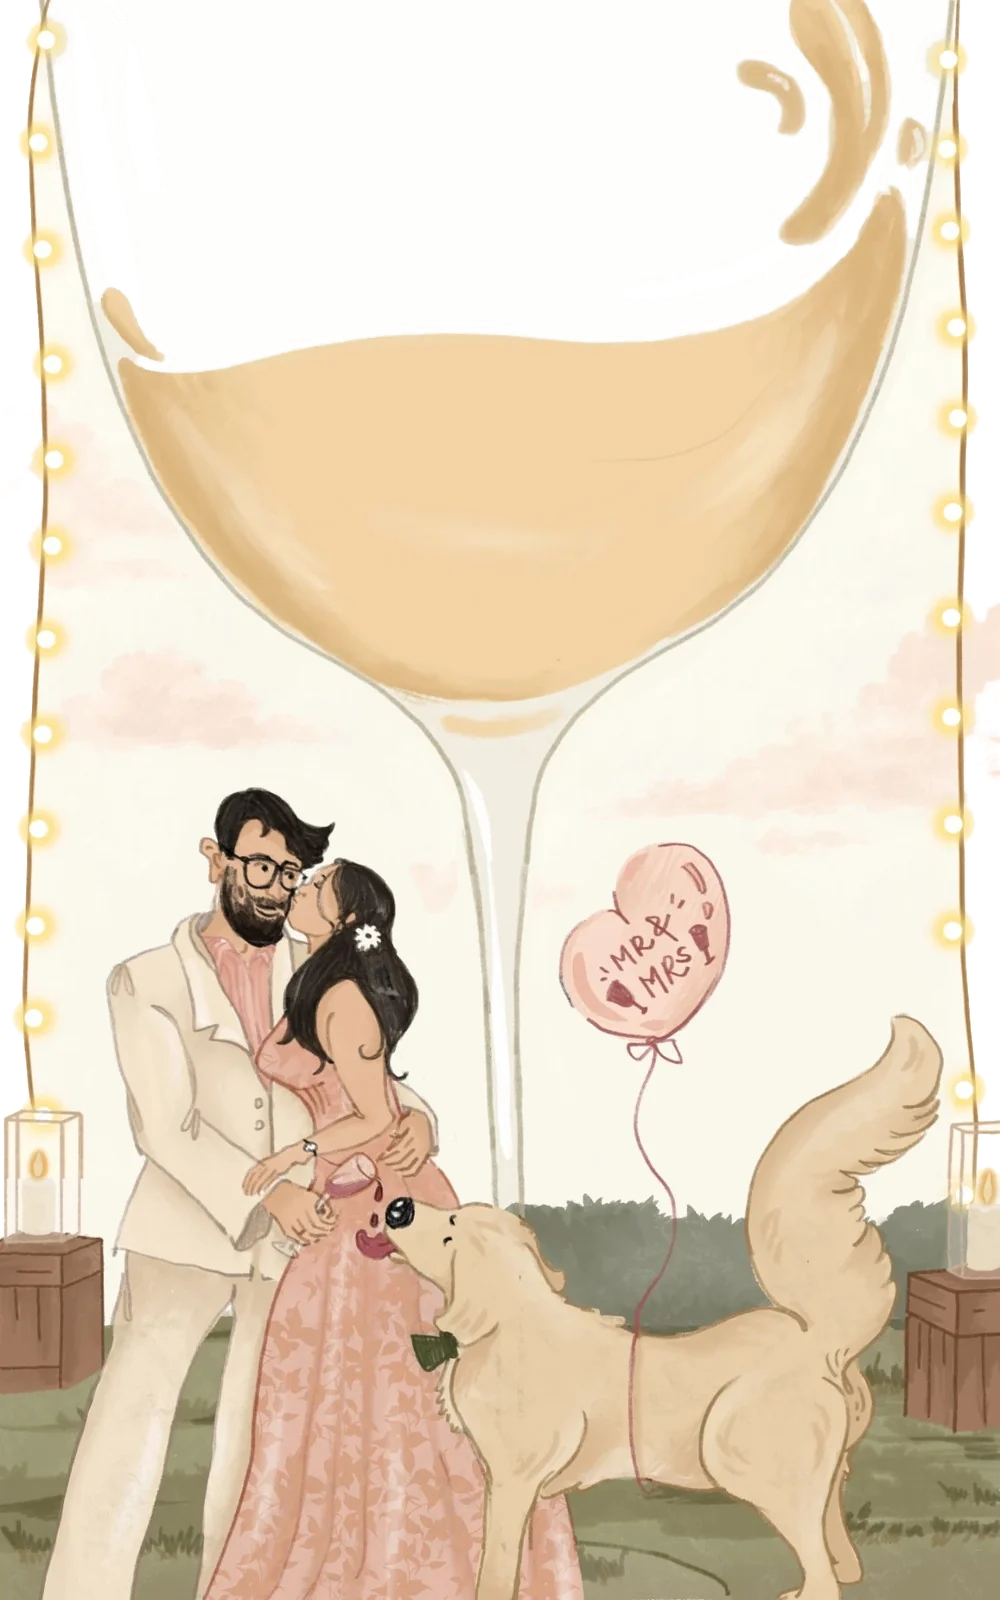
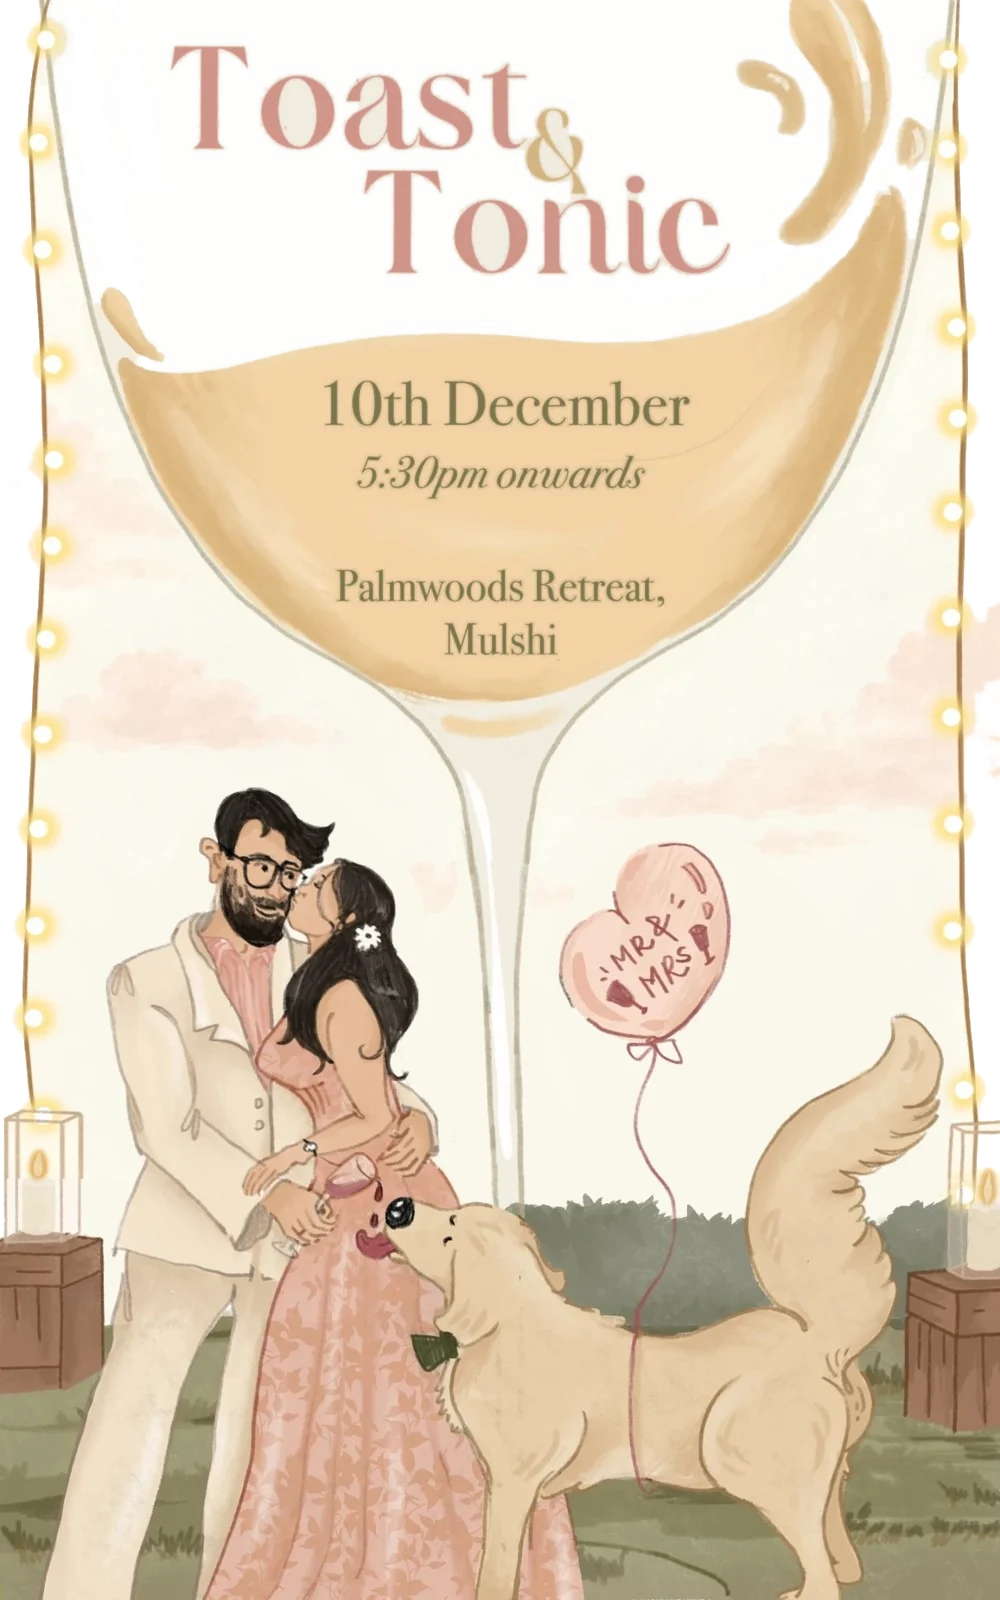
Put the Toast & Tonic lettering back on the cocktail invite
The title, date, time and venue are lifted from the old invite onto the
new illustration, in the same place and colours.

Claude-Session: https://claude.ai/code/session_01NB6zgwaBsBtudP5XzCG7zv

Changed region(s): [[0.155, 0.0312, 0.744, 0.1875], [0.31, 0.2188, 0.682, 0.3125], [0.341, 0.3438, 0.651, 0.4062]]

diff --git a/js/data.js b/js/data.js
@@ -117,7 +117,7 @@ window.EVENTS = [
     times: ['5:30pm onwards'],
     place: 'P',
     card: 'assets/mobile/cocktail.webp',
-    cardAlt: 'Illustration for Toast & Tonic: Ishita and Sarvesh kiss under a giant wine glass while their golden retriever licks a spilled drink.',
+    cardAlt: 'Illustrated invite: Toast & Tonic. 10th December, 5:30pm onwards, Palmwoods Retreat, Mulshi.',
     accent: '#c47f6e',
     particles: 'bubble',
     // No wardrobe page yet. Add one like the others when it's ready.
